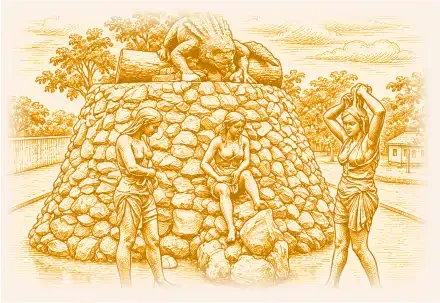
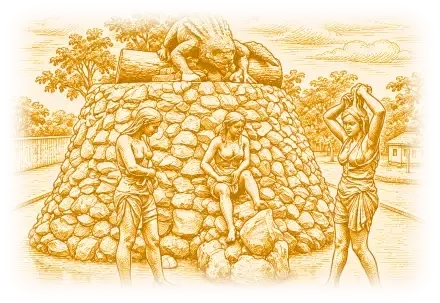
style(historia): remover marcos de tarjetas, quitar primera imagen Chimilas y mostrar grabados difuminados y espaciados

diff --git a/src/app/pages/historia/historia.css b/src/app/pages/historia/historia.css
@@ -272,60 +272,75 @@
   box-shadow: 0 0 0 3px rgba(22, 84, 45, 0.2);
 }
 
-/* 6. CUADRÍCULA DE TODAS LAS ILUSTRACIONES HISTÓRICAS */
+/* 6. CUADRÍCULA DE TODAS LAS ILUSTRACIONES HISTÓRICAS (DIBUJOS DIRECTOS, SIN FORMA DE TARJETAS NI MOSAICO) */
 .historia-gallery-grid {
   display: grid;
   grid-template-columns: repeat(3, minmax(0, 1fr));
-  gap: clamp(14px, 2.2vw, 24px);
-  max-width: 960px;
+  gap: clamp(34px, 4.5vw, 64px) clamp(28px, 3.8vw, 54px);
+  max-width: 860px;
   margin: 0 auto;
-  padding: 0 12px;
+  padding: clamp(20px, 3vw, 36px) clamp(16px, 2.5vw, 24px) clamp(44px, 5.5vw, 68px);
+  align-items: center;
+  justify-items: center;
 }
 
 .gallery-item-card {
   appearance: none;
-  background: transparent;
-  border: none;
-  padding: 0;
+  background: transparent !important;
+  border: none !important;
+  border-radius: 0 !important;
+  box-shadow: none !important;
+  padding: 0 !important;
+  margin: 0 auto !important;
   cursor: pointer;
-  border-radius: 12px;
-  transition: transform 0.24s cubic-bezier(0.22, 1, 0.36, 1);
   outline: none;
+  display: flex;
+  align-items: center;
+  justify-content: center;
+  width: 100%;
+  max-width: clamp(190px, 22vw, 245px);
+  transition: transform 0.28s cubic-bezier(0.22, 1, 0.36, 1);
 }
 
 .gallery-thumb-wrap {
   position: relative;
   width: 100%;
-  aspect-ratio: 16 / 10;
-  border-radius: 12px;
-  overflow: hidden;
-  border: 1.5px solid rgba(200, 150, 46, 0.36);
-  box-shadow: 0 6px 16px rgba(96, 65, 24, 0.08);
-  background: #eae0ce;
-  transition: all 0.24s ease;
+  border-radius: 0 !important;
+  overflow: visible !important;
+  border: none !important;
+  box-shadow: none !important;
+  background: transparent !important;
+  display: flex;
+  align-items: center;
+  justify-content: center;
 }
 
 .gallery-thumb-img {
   width: 100%;
-  height: 100%;
-  object-fit: cover;
+  height: auto;
+  object-fit: contain;
   display: block;
-  transition: transform 0.4s ease;
-}
-
-.gallery-item-card:hover .gallery-thumb-wrap {
-  border-color: #16542d;
-  box-shadow: 0 10px 24px rgba(22, 84, 45, 0.18);
-  transform: translateY(-3px);
+  border-radius: 0;
+  transition: transform 0.32s cubic-bezier(0.2, 0.9, 0.3, 1), filter 0.32s ease;
+  filter: drop-shadow(0 4px 10px rgba(180, 140, 50, 0.08));
 }
 
 .gallery-item-card:hover .gallery-thumb-img {
-  transform: scale(1.04);
+  transform: scale(1.06);
+  filter: drop-shadow(0 10px 22px rgba(180, 130, 40, 0.24));
 }
 
-.gallery-item-card.selected .gallery-thumb-wrap {
-  border-color: #16542d;
-  box-shadow: 0 0 0 3px rgba(22, 84, 45, 0.35), 0 10px 24px rgba(22, 84, 45, 0.2);
+.gallery-item-card.selected .gallery-thumb-img {
+  transform: scale(1.05);
+  filter: drop-shadow(0 8px 20px rgba(22, 84, 45, 0.32));
+}
+
+.gallery-item-card:focus-visible {
+  outline: none;
+}
+
+.gallery-item-card:focus-visible .gallery-thumb-img {
+  filter: drop-shadow(0 0 14px rgba(200, 150, 46, 0.5));
 }
 
 /* ==========================================================================
@@ -355,12 +370,13 @@
 
   .historia-gallery-grid {
     grid-template-columns: repeat(2, minmax(0, 1fr));
-    gap: 12px;
+    gap: 28px 20px;
   }
 }
 
 @media (max-width: 480px) {
   .historia-gallery-grid {
     grid-template-columns: 1fr;
+    gap: 24px;
   }
 }

diff --git a/src/app/pages/historia/historia.ts b/src/app/pages/historia/historia.ts
@@ -258,8 +258,12 @@ export class HistoriaComponent implements AfterViewInit, OnDestroy {
   readonly languageService = inject(LanguageService);
   readonly lang = this.languageService.lang;
   readonly content = computed(() => HISTORIA_CONTENT[this.lang()]);
-  readonly activeChapterId = signal<string>('cap-chimilas');
+  readonly activeChapterId = signal<string>('cap-zarate');
   readonly expandedChapters = signal<Set<string>>(new Set());
+
+  readonly galleryChapters = computed(() =>
+    this.content().chapters.filter(c => c.id !== 'cap-chimilas')
+  );
 
   readonly activeChapter = computed(() => {
     const chapters = this.content().chapters;

diff --git a/src/app/pages/historia/historia.html b/src/app/pages/historia/historia.html
@@ -162,9 +162,9 @@
     }
   </div>
 
-  <!-- 6. CUADRÍCULA DE TODAS LAS ILUSTRACIONES HISTÓRICAS (3 COLUMNAS X FILAS) -->
+  <!-- 6. CUADRÍCULA DE TODAS LAS ILUSTRACIONES HISTÓRICAS (DIBUJOS DIRECTOS, SIN TARJETAS) -->
   <section class="historia-gallery-grid" aria-label="Galería de grabados históricos">
-    @for (cap of content().chapters; track cap.id) {
+    @for (cap of galleryChapters(); track cap.id) {
       <button
         type="button"
         class="gallery-item-card"
